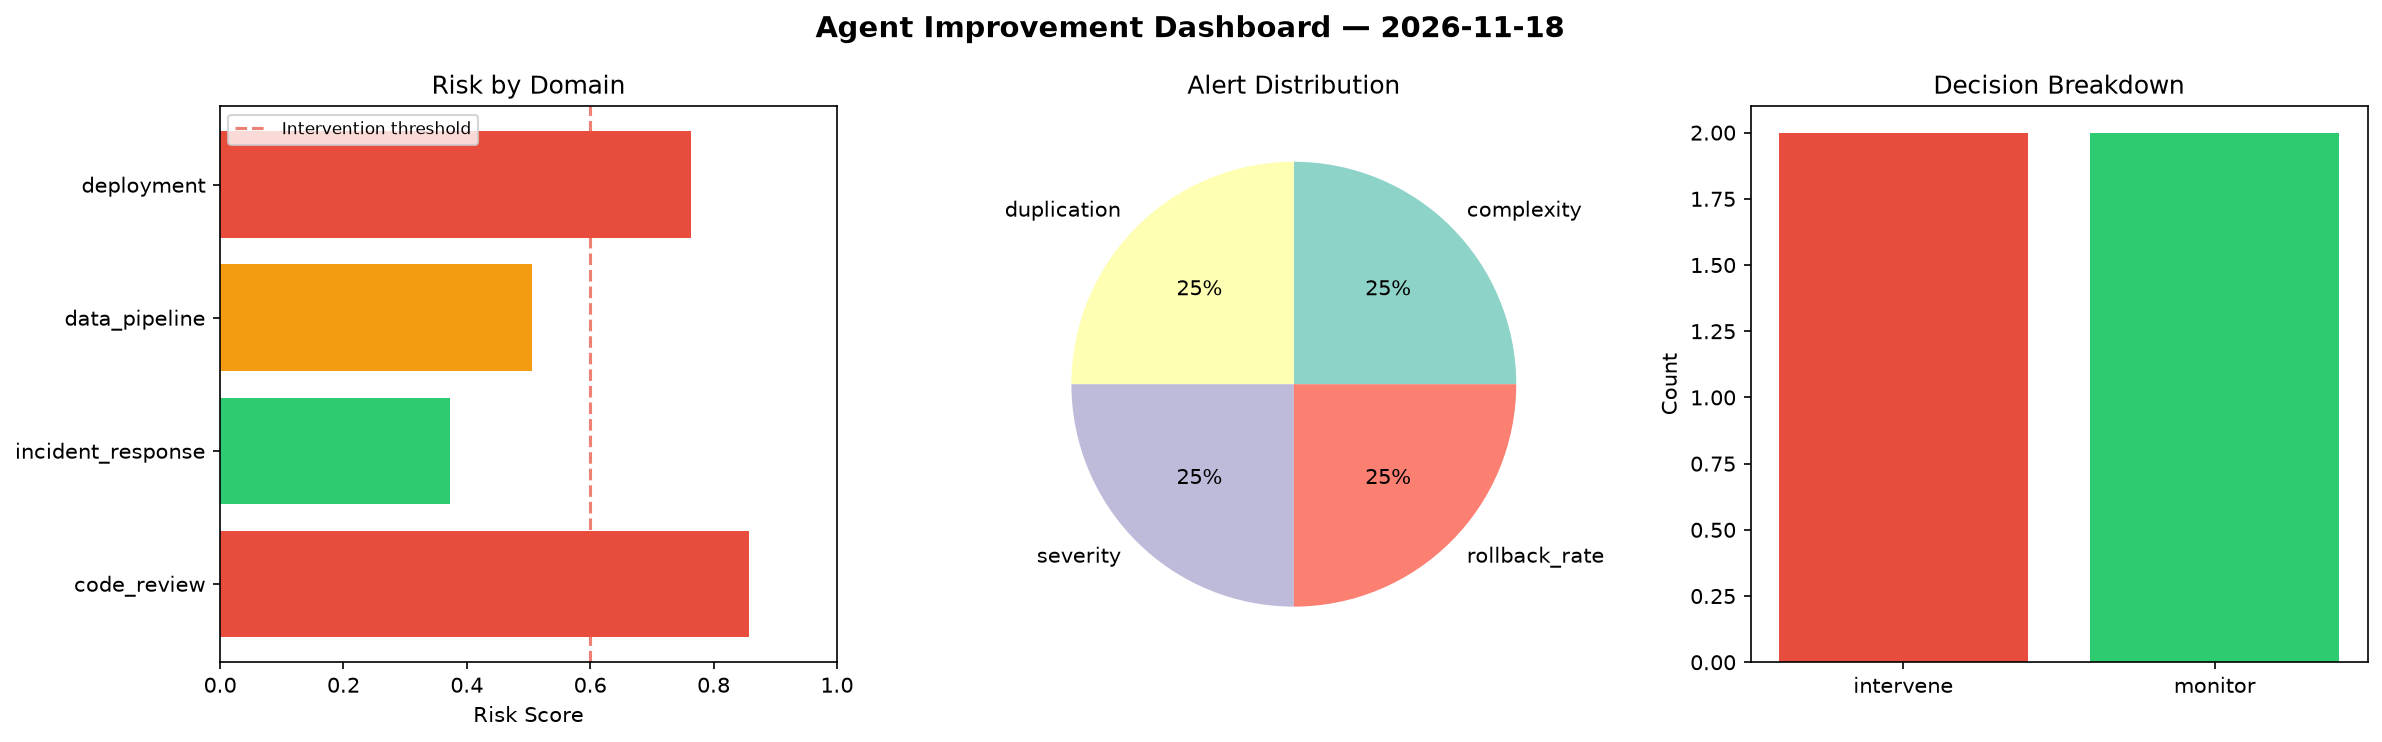
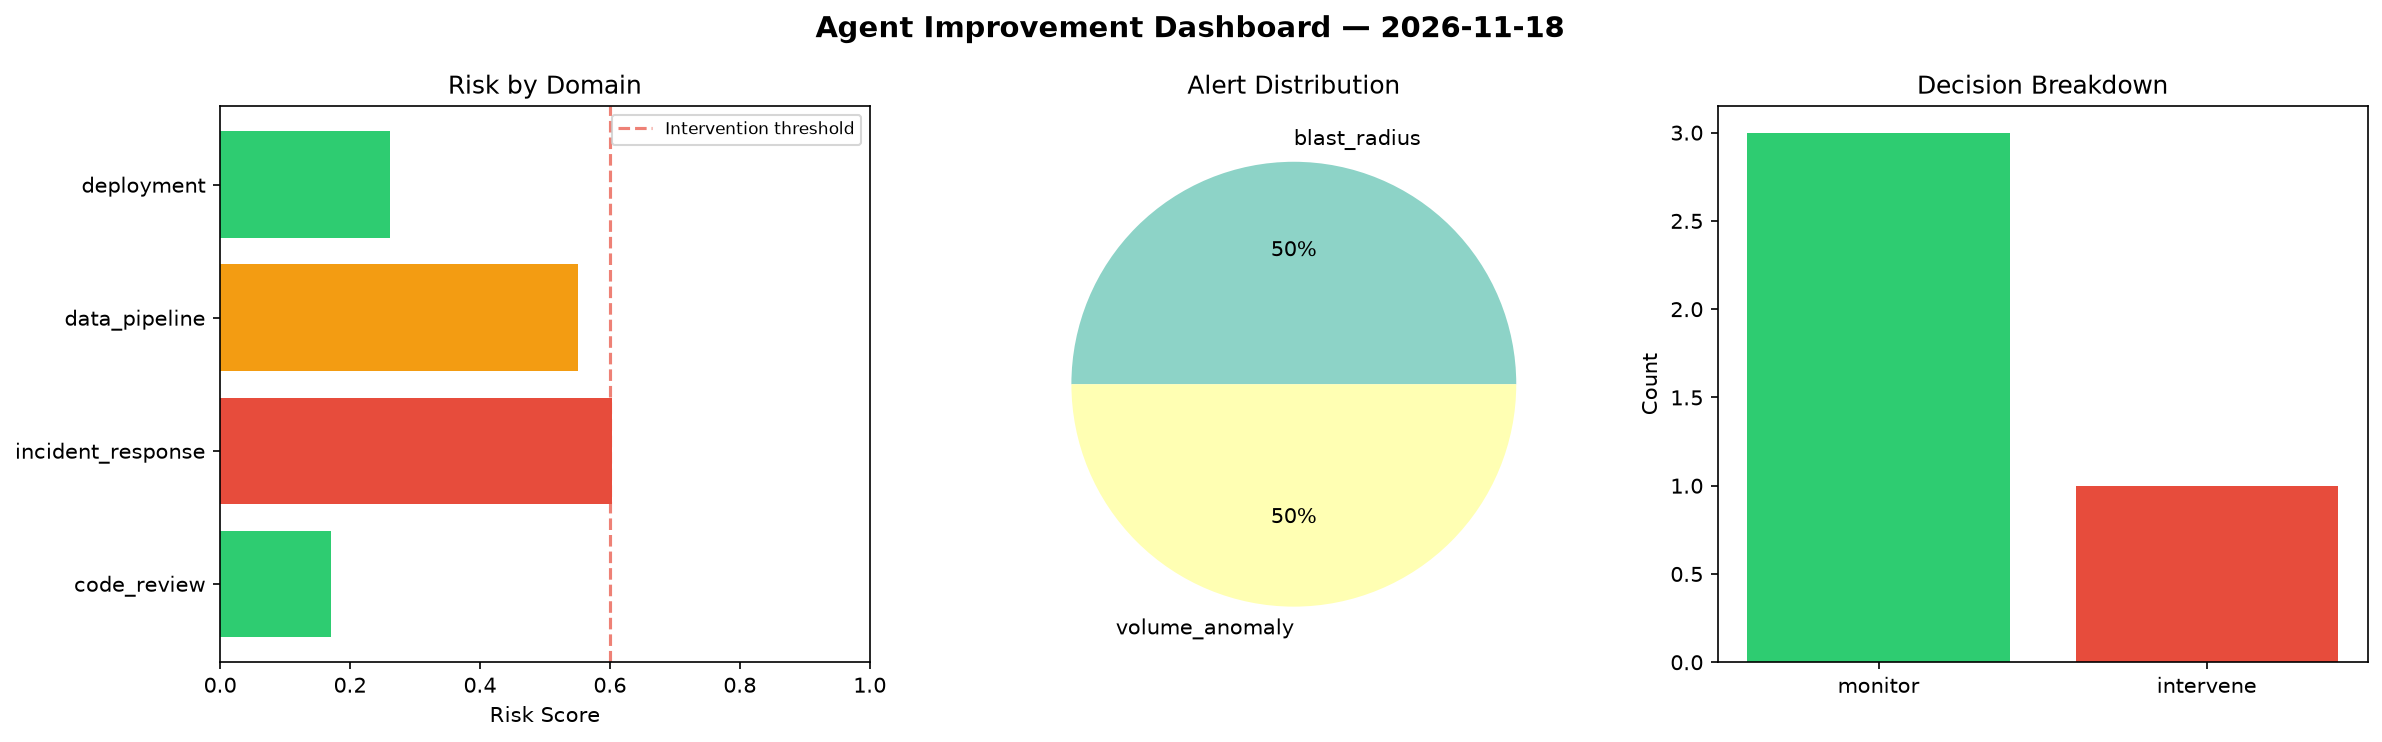
agent-improvement: daily cycle 2026-11-18T17:15

diff --git a/logs/2026-11-18.md b/logs/2026-11-18.md
@@ -1,6 +1,6 @@
 # Agent Improvement Report — 2026-11-18
 
-**Cycle ID:** `14c1109a` | **Avg Risk:** 0.6247 | **Interventions:** 2/4
+**Cycle ID:** `185cbf39` | **Avg Risk:** 0.3962 | **Interventions:** 1/4
 
 ![Dashboard](2026-11-18_dashboard.png)
 
@@ -10,18 +10,18 @@
 
 | Domain | Risk Score | Decision | Alerts |
 |--------|-----------|----------|--------|
-| code_review | 0.8577 | intervene | complexity, duplication |
-| incident_response | 0.3733 | monitor | severity |
-| data_pipeline | 0.505 | monitor | none |
-| deployment | 0.7626 | intervene | rollback_rate |
+| code_review | 0.1707 | monitor | none |
+| incident_response | 0.6025 | intervene | blast_radius |
+| data_pipeline | 0.5503 | monitor | volume_anomaly |
+| deployment | 0.2614 | monitor | none |
 
 ## Delta vs Yesterday
 
 | Domain | Today | Yesterday | Change |
 |--------|-------|-----------|--------|
-| code_review | 0.8577 | 0.7735 | 📈 10.9% |
-| incident_response | 0.3733 | 0.5219 | 📉 -28.5% |
-| data_pipeline | 0.505 | 0.3648 | 📈 38.4% |
-| deployment | 0.7626 | 0.6549 | 📈 16.4% |
+| code_review | 0.1707 | 0.7735 | 📉 -77.9% |
+| incident_response | 0.6025 | 0.5219 | 📈 15.4% |
+| data_pipeline | 0.5503 | 0.3648 | 📈 50.8% |
+| deployment | 0.2614 | 0.6549 | 📉 -60.1% |
 
-**Refinement:** `{'adjustment': 'maintain', 'trend': 'improving', 'window': 4}`
+**Refinement:** `{'adjustment': 'tighten_thresholds', 'trend': 'degrading', 'window': 4}`
